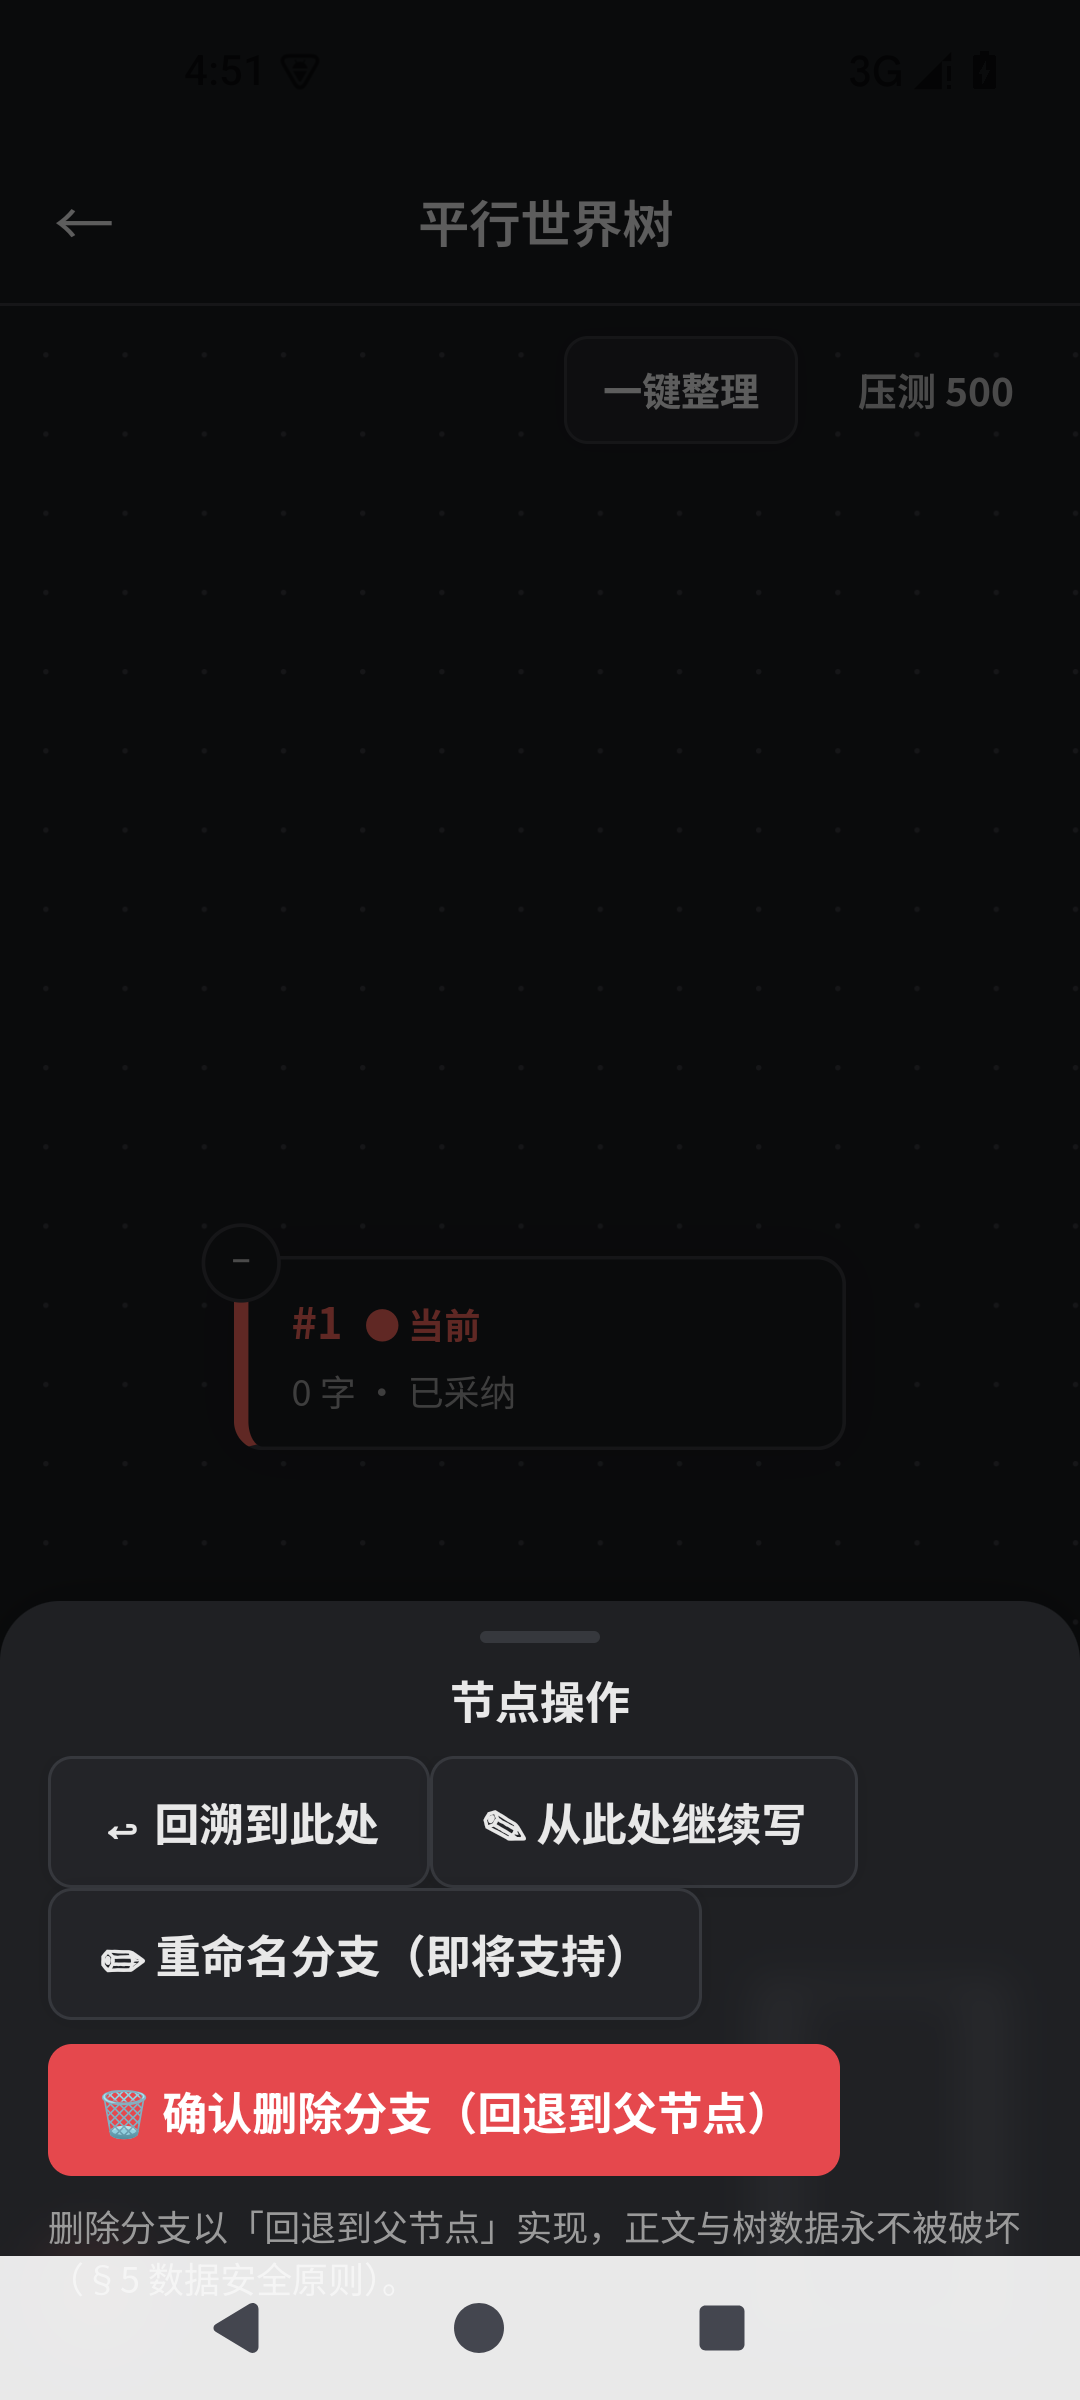
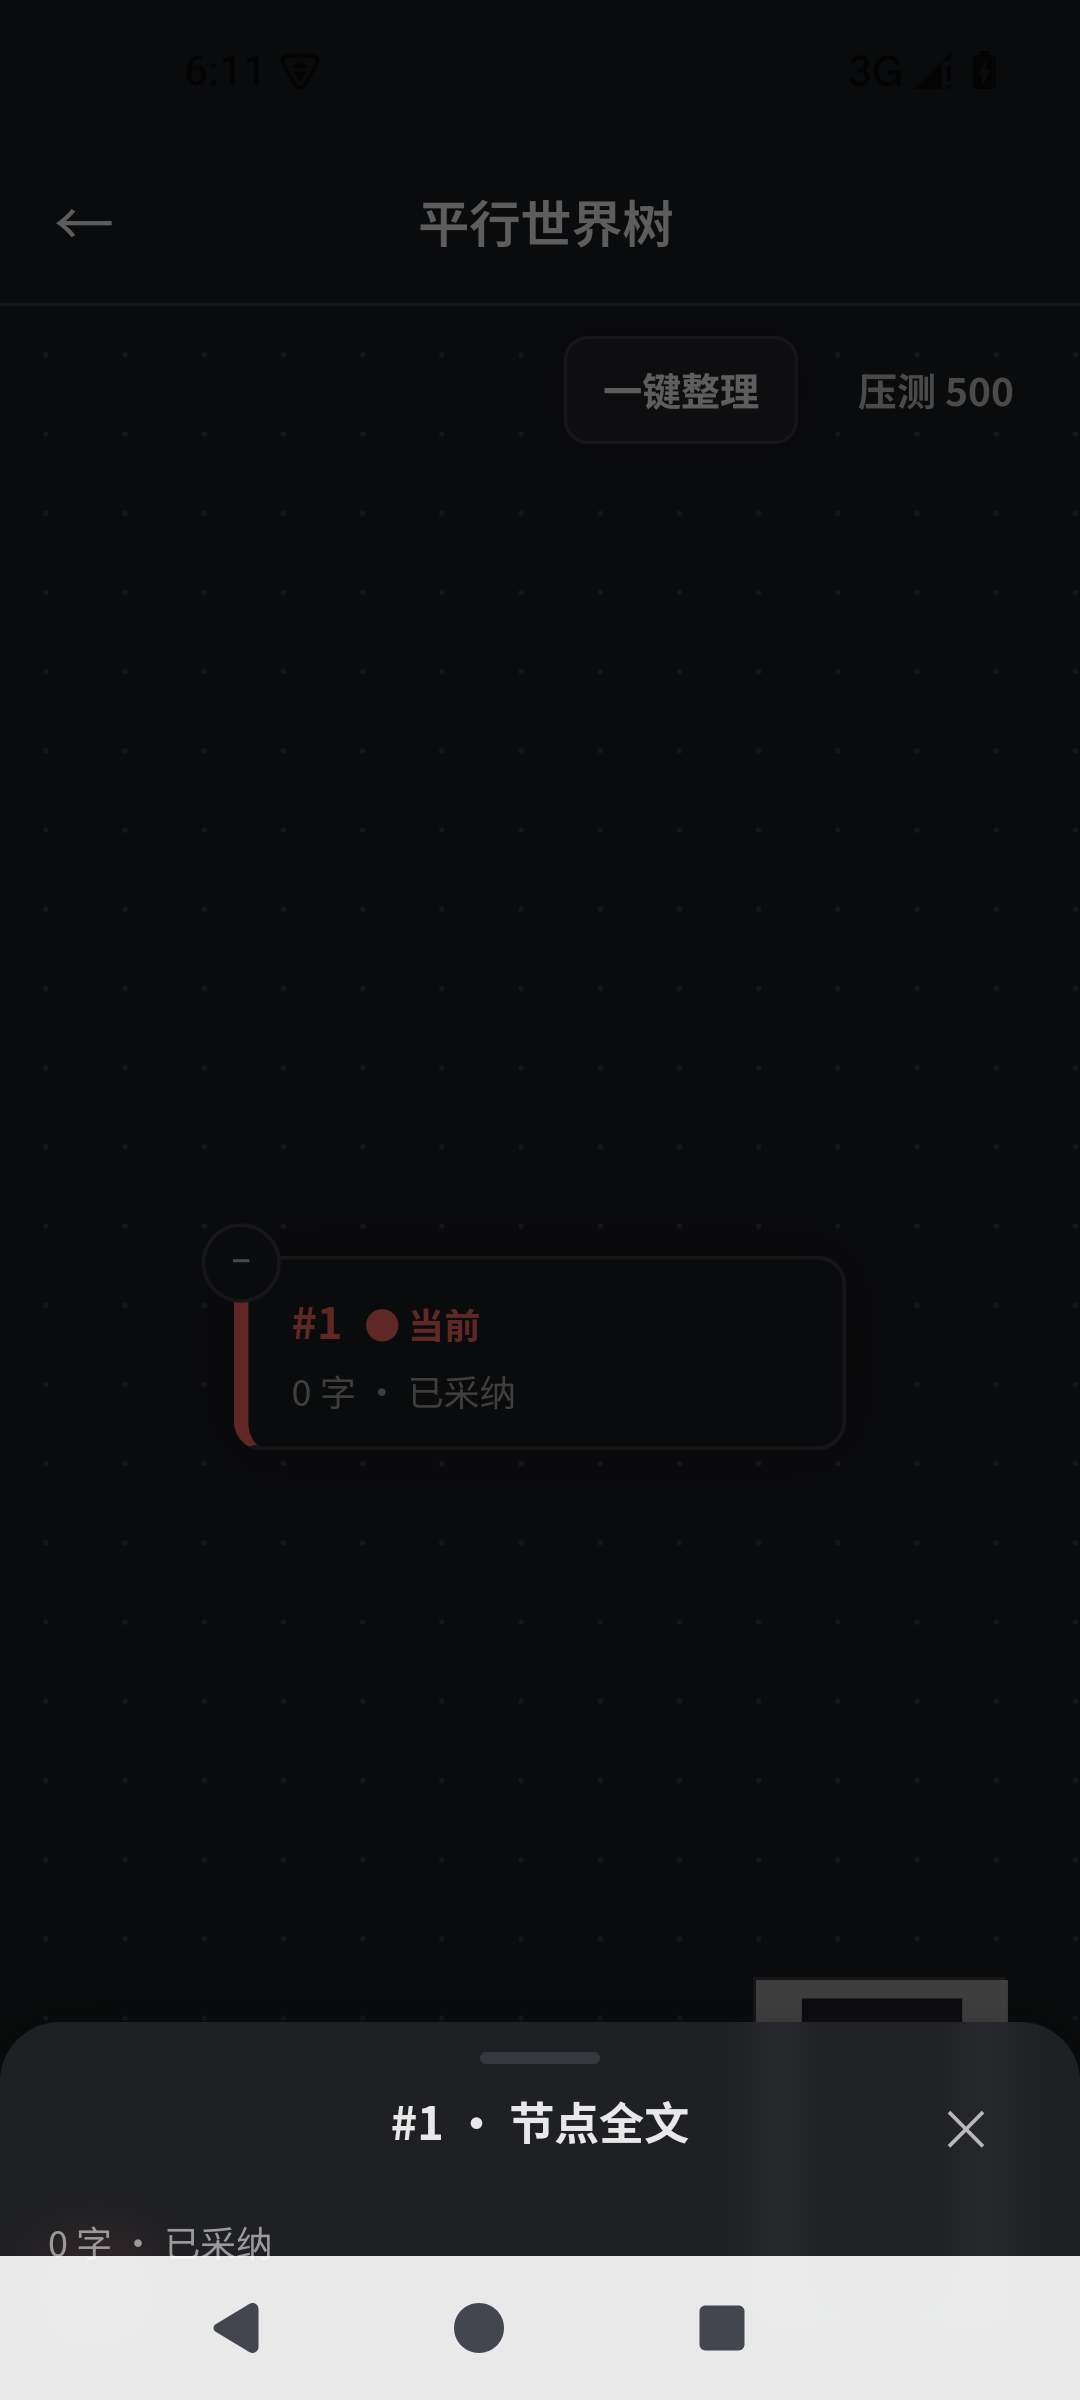
阶段3-E 修复2：折叠时虚拟候选一并隐藏；折叠实拍定位（局部视图证据）

Changed region(s): [[0.0306, 0.6562, 0.9778, 0.9375]]

diff --git a/src/mobile/components/components.css b/src/mobile/components/components.css
@@ -127,13 +127,33 @@
   background: var(--gray-2);
   margin: 0 auto;
 }
+.msheet2-title-row {
+  position: relative;
+  display: flex;
+  align-items: center;
+  justify-content: center;
+  padding: var(--sp-1) var(--sp-4) var(--sp-2);
+  flex: 0 0 auto;
+}
 .msheet2-title {
-  text-align: center;
   font-weight: 700;
   font-size: var(--fs-md);
   color: var(--gray-5);
-  padding: var(--sp-1) 0 var(--sp-2);
-  flex: 0 0 auto;
+  text-align: center;
+}
+.msheet2-close {
+  position: absolute;
+  right: var(--sp-4);
+  top: 50%;
+  transform: translateY(-50%);
+  min-width: 44px;
+  min-height: 44px;
+  border: none;
+  background: transparent;
+  color: var(--gray-4);
+  font-size: 16px;
+  cursor: pointer;
+  border-radius: 50%;
 }
 .msheet2-body {
   padding: 0 var(--sp-4) var(--sp-4);

diff --git a/src/worldtree/WorldTreeCanvas.tsx b/src/worldtree/WorldTreeCanvas.tsx
@@ -181,9 +181,14 @@ function CanvasInner(): JSX.Element {
   const storyIdRef = useRef(storyId);
   useEffect(() => {
     void (async () => {
-      const saved = await loadTreeLayout(storyIdRef.current);
+      let saved: Record<string, { x: number; y: number }> = {};
+      try {
+        saved = await loadTreeLayout(storyIdRef.current);
+      } catch {
+        saved = {}; // 表缺失/查询失败：按无自定义坐标处理
+      }
       setCustomLayout(saved);
-      setLayoutLoaded(true);
+      setLayoutLoaded(true); // 无论成败都置位，保证初始 fitView 执行
     })();
     // eslint-disable-next-line react-hooks/exhaustive-deps
   }, [storyIdRef.current]);

diff --git a/src/mobile/components/BottomSheet.tsx b/src/mobile/components/BottomSheet.tsx
@@ -87,7 +87,14 @@ export function BottomSheet({ open, onClose, title, children }: BottomSheetProps
         >
           <div className="msheet2-handle" />
         </div>
-        {title && <div className="msheet2-title">{title}</div>}
+        {title && (
+          <div className="msheet2-title-row">
+            <div className="msheet2-title">{title}</div>
+            <button type="button" className="msheet2-close" aria-label="关闭" onClick={onClose}>
+              ✕
+            </button>
+          </div>
+        )}
         <div className="msheet2-body">{children}</div>
       </div>
     </>,
